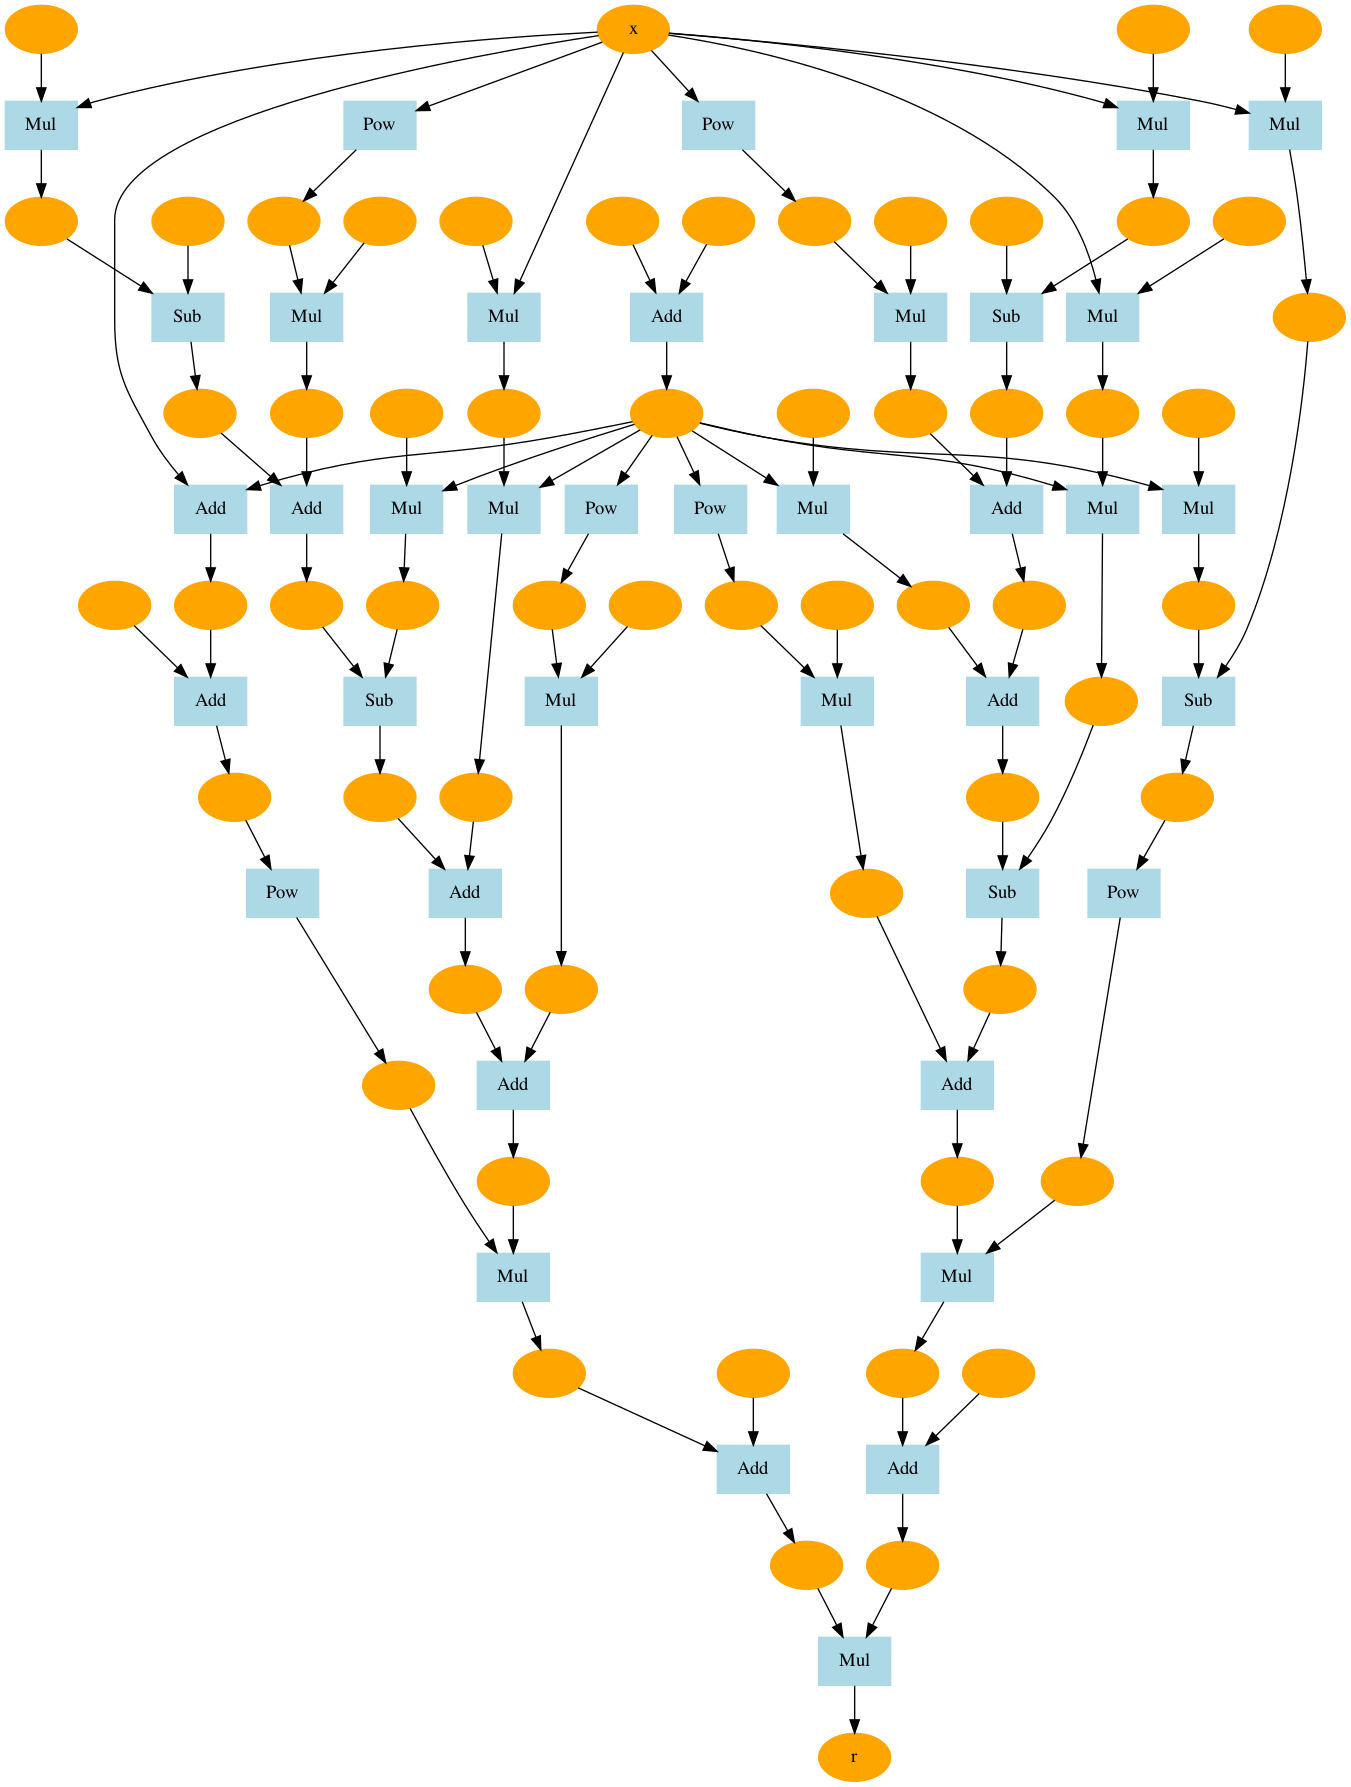
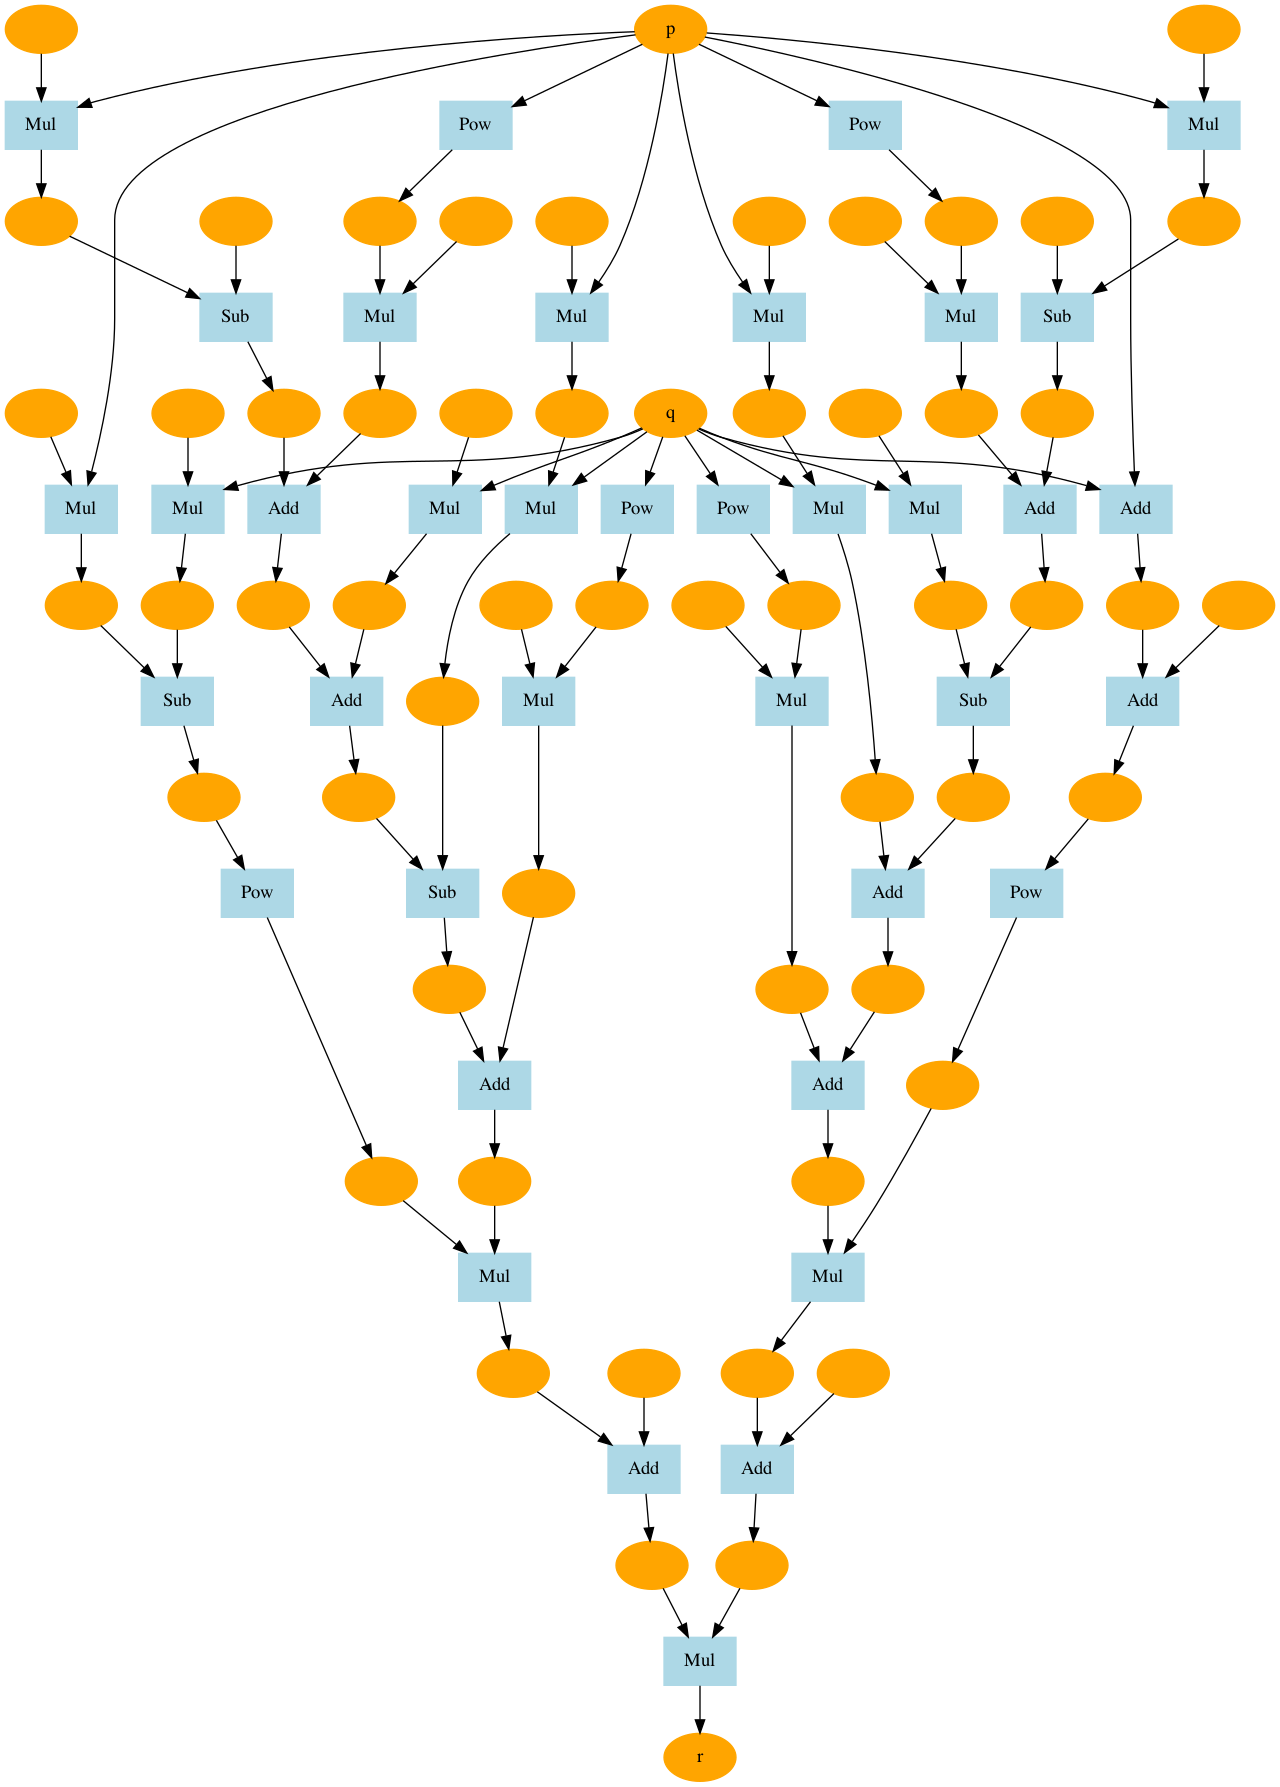
goldstein graph

diff --git a/DeepLearningfromScratch3/step26.py b/DeepLearningfromScratch3/step26.py
@@ -24,7 +24,7 @@ print(txt)
 
 p = Variable(np.array(1.0))
 q = Variable(np.array(1.0))
-r = goldstein(x, y)
+r = goldstein(p, q)
 r.backward()
 
 p.name = 'p'
